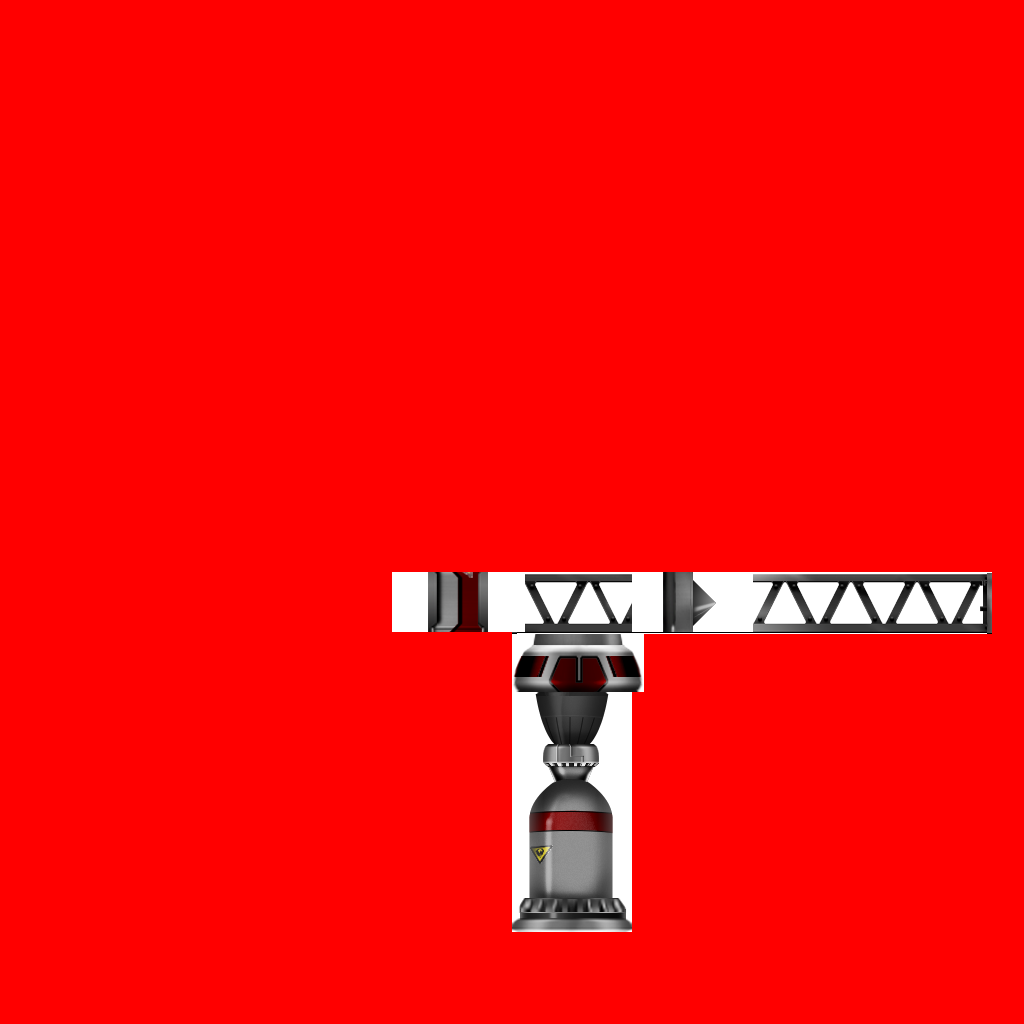
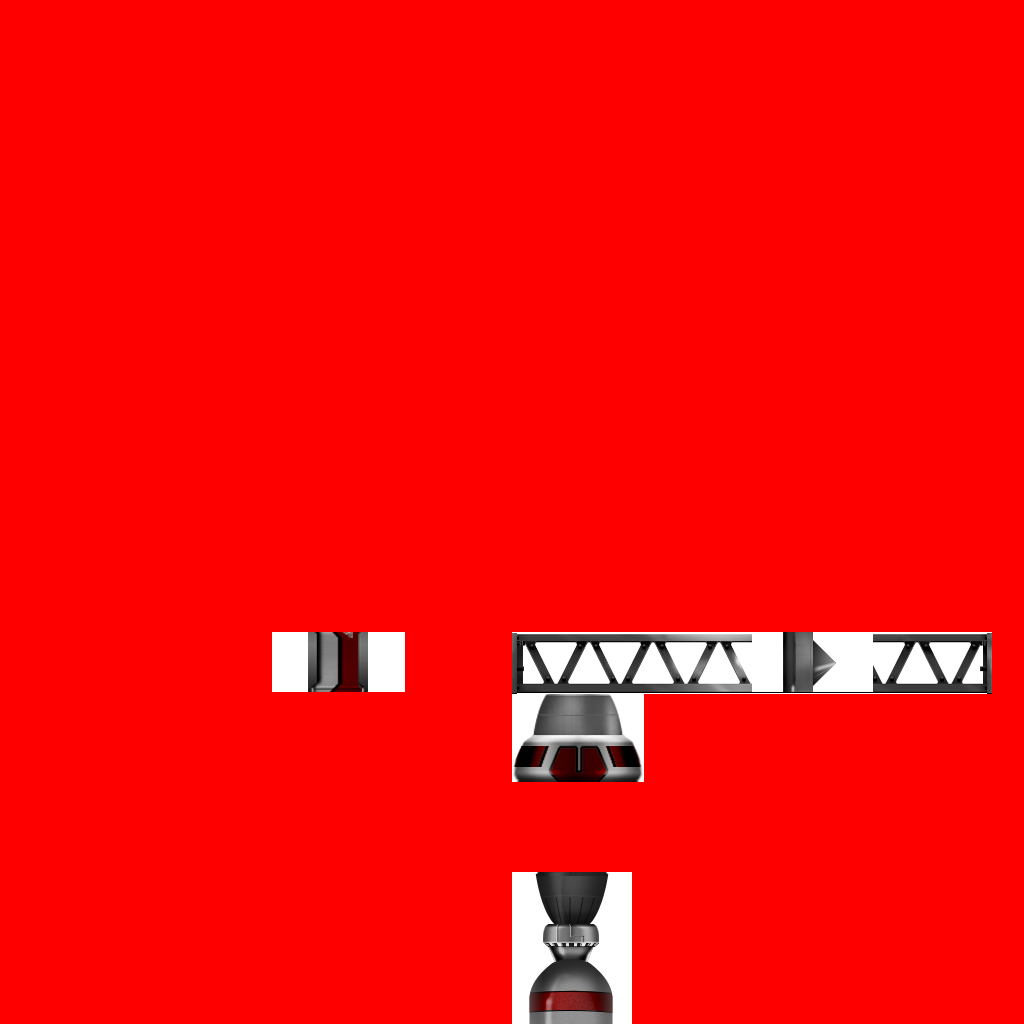
nothing(

Changed region(s): [[0.25, 0.5312, 0.9688, 1.0]]

diff --git a/ship_render.py b/ship_render.py
@@ -10,7 +10,7 @@ import shutil
 import random
 from PIL import Image
 import xml.dom.minidom
-from main import tools as tt
+# from main import tools as tt
 from xml.dom.minidom import parse
 # --------------可修改变量------------------
 ship_pic_filename = 'ShipSprites.png'
@@ -103,7 +103,7 @@ class ship_render():
             pic_c = [int(self.render_center[0]), int(self.render_center[1])]
             turn = part['turn']
             paste_box = [pic_c[0], pic_c[1], pic_c[0], pic_c[1]]
-            part['x'], part['y'] = part['x'] * 30, part['y'] * 30
+            part['x'], part['y'] = part['x'] * 60, part['y'] * 60
             paste_box = [part['x'] + pic_c[0], part['y'] + pic_c[1],
                          part['x'] + w + pic_c[0], part['y'] + h + pic_c[1]]
             if turn == 0.0:
@@ -127,7 +127,7 @@ test_class = ship_render()
 
 # test_class.save_part_config()
 
-test_class.render_ship('test.xml')
+# test_class.render_ship('test.xml')
 
 # test_class.load_xml('PartList.xml')
 
